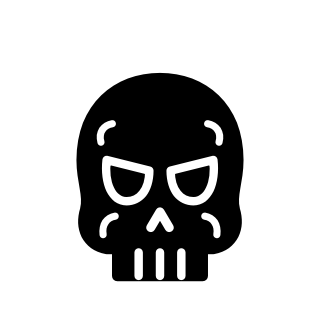
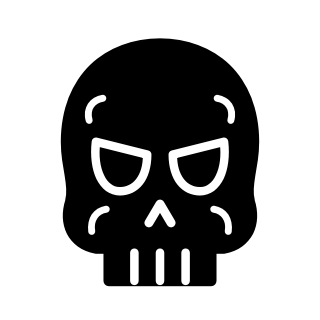
Art: Necromancer skull 20% larger to match the other pieces

Changed region(s): [[0.1875, 0.0938, 0.8125, 0.9062], [0.4375, 0.625, 0.5625, 0.7188]]

diff --git a/art/source/piece_options/make_final_ram_rogue_necromancer.py b/art/source/piece_options/make_final_ram_rogue_necromancer.py
@@ -67,15 +67,21 @@ EYE_L = "M 15,22.5 L 21,24 C 21,26.8 19.6,28.3 17.8,28.3 C 15.8,28.3 14.6,25.8 1
 EYE_R = "M 30,22.5 L 24,24 C 24,26.8 25.4,28.3 27.2,28.3 C 29.2,28.3 30.4,25.8 30,22.5 Z"
 CHEEKS = ("M 14.2,20 C 13.8,18.6 14.6,17.6 15.8,17.4 M 30.8,20 C 31.2,18.6 30.4,17.6 29.2,17.4 "
           "M 14.5,33 C 14.3,31.6 15,30.6 16.2,30.4 M 30.5,33 C 30.7,31.6 30,30.6 28.8,30.4")
+# Drawn 20% bigger than first made (Mac: to match the other pieces), growing up
+# from the bottom of the jaw; line widths are divided by the same amount so the
+# outline stays the usual 1.5.
+NECRO_SCALE = 1.2
+
 def necromancer(team):
     fill, line = colours(team)
-    out = shape(SKULL, fill)
+    k = NECRO_SCALE
+    out = shape(SKULL, fill, "#000", 1.5 / k)
     eye_stroke = "#000" if team == "white" else "#fff"
-    out += shape(EYE_L, "#000", eye_stroke, 1.2) + shape(EYE_R, "#000", eye_stroke, 1.2)
-    out += detail("M 21.2,32 L 22.5,29.8 L 23.8,32", line, 1.3)
-    out += detail("M 19.5,35.5 L 19.5,38.8 M 22.5,35.5 L 22.5,38.8 M 25.5,35.5 L 25.5,38.8", line, 1.2)
-    out += detail(CHEEKS, line, 1)
-    return out
+    out += shape(EYE_L, "#000", eye_stroke, 1.2 / k) + shape(EYE_R, "#000", eye_stroke, 1.2 / k)
+    out += detail("M 21.2,32 L 22.5,29.8 L 23.8,32", line, 1.3 / k)
+    out += detail("M 19.5,35.5 L 19.5,38.8 M 22.5,35.5 L 22.5,38.8 M 25.5,35.5 L 25.5,38.8", line, 1.2 / k)
+    out += detail(CHEEKS, line, 1 / k)
+    return '<g transform="translate(22.5,39.5) scale(%s) translate(-22.5,-38.8)">%s</g>' % (k, out)
 
 PIECES = {"ram": ram, "rogue": rogue, "necromancer": necromancer}
 for name, draw in PIECES.items():

diff --git a/CLAUDE.md b/CLAUDE.md
@@ -116,7 +116,7 @@ Steps 1–4 DONE: army data and rules, army builder screen, saving up to 10 armi
 * Necromancer (NC, 3, king steps, can't capture (MOVE_ONLY), Special Ability "Raise Dead"): once per game it leaves the board and one of your lost pieces (not pawn types, not Necromancers) returns on its square as if the game had just started (shield back, ability unused; has_moved = true so it can't castle). Picture: [necromancer] [lightning] [raised piece].
 * Engine: abilities are ordinary moves (`Move.ability`, `raised`, `raised_from_lost`; `Move.to_text()` "a1!c3" / "d2!=Q"; text SAN "Axc3!" / "NC!=Q"); `Piece.ability_used` (FEN mark ^ after the piece); `GameState.lost[team]` (captured pieces and dead Rams; attack tables include lost types so raised pieces are covered); `MoveGenerator.raisable_defs`. A side with an unused Raise Dead and something to raise is never an insufficient-material draw; pieces that can't capture are ignored when only they and kings remain.
 * UI (Mac's design): selecting a piece with an unused ability shows a button named after it (lightning icon) beside the board (`game.ability_button`). Crack Shot: the button switches the board to aiming (`BoardView.aim_ability()`, gold rings on targets); a normal tap on a target is still a normal capture. Raise Dead: the button opens the picker (shared with promotion) showing the lost pieces.
-* Art (second batch): Archer = round 11 archer_white_arrow (bow arcing to the top-right, arrow pointing at the top-right corner, from Mac's reference); Cavalry = round 11 cavalry_lance_behind (the knight mirrored to face right, lance rising behind to the top-left with a pennant), lance shortened so its tip clears the top of the square. Final SVGs made by `art/source/piece_options/make_final_archer_cavalry.py` into `art/source/pieces/`. Cavalry pennant sticks out behind the horse. Wizard = round 12 wizard_ball_wide_round (crystal ball on a short wide rounded stand); Berserker = round 12 berserker_bent_b with lower horns curving smoothly to sharp points; Chariot = round 13 chariot_ref2 with the body moved back past the wheel and a short thick stepped pole like the bishop's base ribbon. Ram = round 13 ram_knight_c (Cburnett knight body, ram's face, big horn as a filled band ending in a sharp point inside its curl); Rogue = round 14 rogue_hood_cloak (pointed hood, dark teardrop opening, cloak split at the bottom; black version has a white rim and hood edge); Necromancer = round 14 angry skull without horns (slanted eyes, cheek swirls, teeth). Made by `make_final_ram_rogue_necromancer.py`. All 16 pieces now have art. Made by `make_final_wizard_berserker_chariot.py`. Still to choose: Ram, Necromancer, Rogue (round 13 options).
+* Art (second batch): Archer = round 11 archer_white_arrow (bow arcing to the top-right, arrow pointing at the top-right corner, from Mac's reference); Cavalry = round 11 cavalry_lance_behind (the knight mirrored to face right, lance rising behind to the top-left with a pennant), lance shortened so its tip clears the top of the square. Final SVGs made by `art/source/piece_options/make_final_archer_cavalry.py` into `art/source/pieces/`. Cavalry pennant sticks out behind the horse. Wizard = round 12 wizard_ball_wide_round (crystal ball on a short wide rounded stand); Berserker = round 12 berserker_bent_b with lower horns curving smoothly to sharp points; Chariot = round 13 chariot_ref2 with the body moved back past the wheel and a short thick stepped pole like the bishop's base ribbon. Ram = round 13 ram_knight_c (Cburnett knight body, ram's face, big horn as a filled band ending in a sharp point inside its curl); Rogue = round 14 rogue_hood_cloak (pointed hood, dark teardrop opening, cloak split at the bottom; black version has a white rim and hood edge); Necromancer = round 14 angry skull without horns (slanted eyes, cheek swirls, teeth), drawn 20% larger to match the other pieces. Made by `make_final_ram_rogue_necromancer.py`. All 16 pieces now have art. Made by `make_final_wizard_berserker_chariot.py`. Still to choose: Ram, Necromancer, Rogue (round 13 options).
 * Mac: "any piece that can jump uses the Jump keyword" (explanation text broadened); all pawn types show the Promote keyword on their card; special abilities are written with * for now (clashes with the shield-break * — Mac to design notation for every non-normal move).
 * Piece card: "Special Rule" (`PieceDef.special_rule`, text in the .tres; the cannon's moved there) and "Special Ability" (`PieceDef.ability_name` / `ability_text`) sections. Pieces without art show their letters (`board_view_test.ART_TO_COME` lists them).
 * Attack detection: `MoveGenerator.attack_table` returns [lines, unusual]; leaping/path rules (`MoveRule.is_unusual()`) are checked from each such piece (`_rule_reaches`). `movement_pieces_test.test_attack_detection_matches_captures` cross-checks attacks against generated captures.
